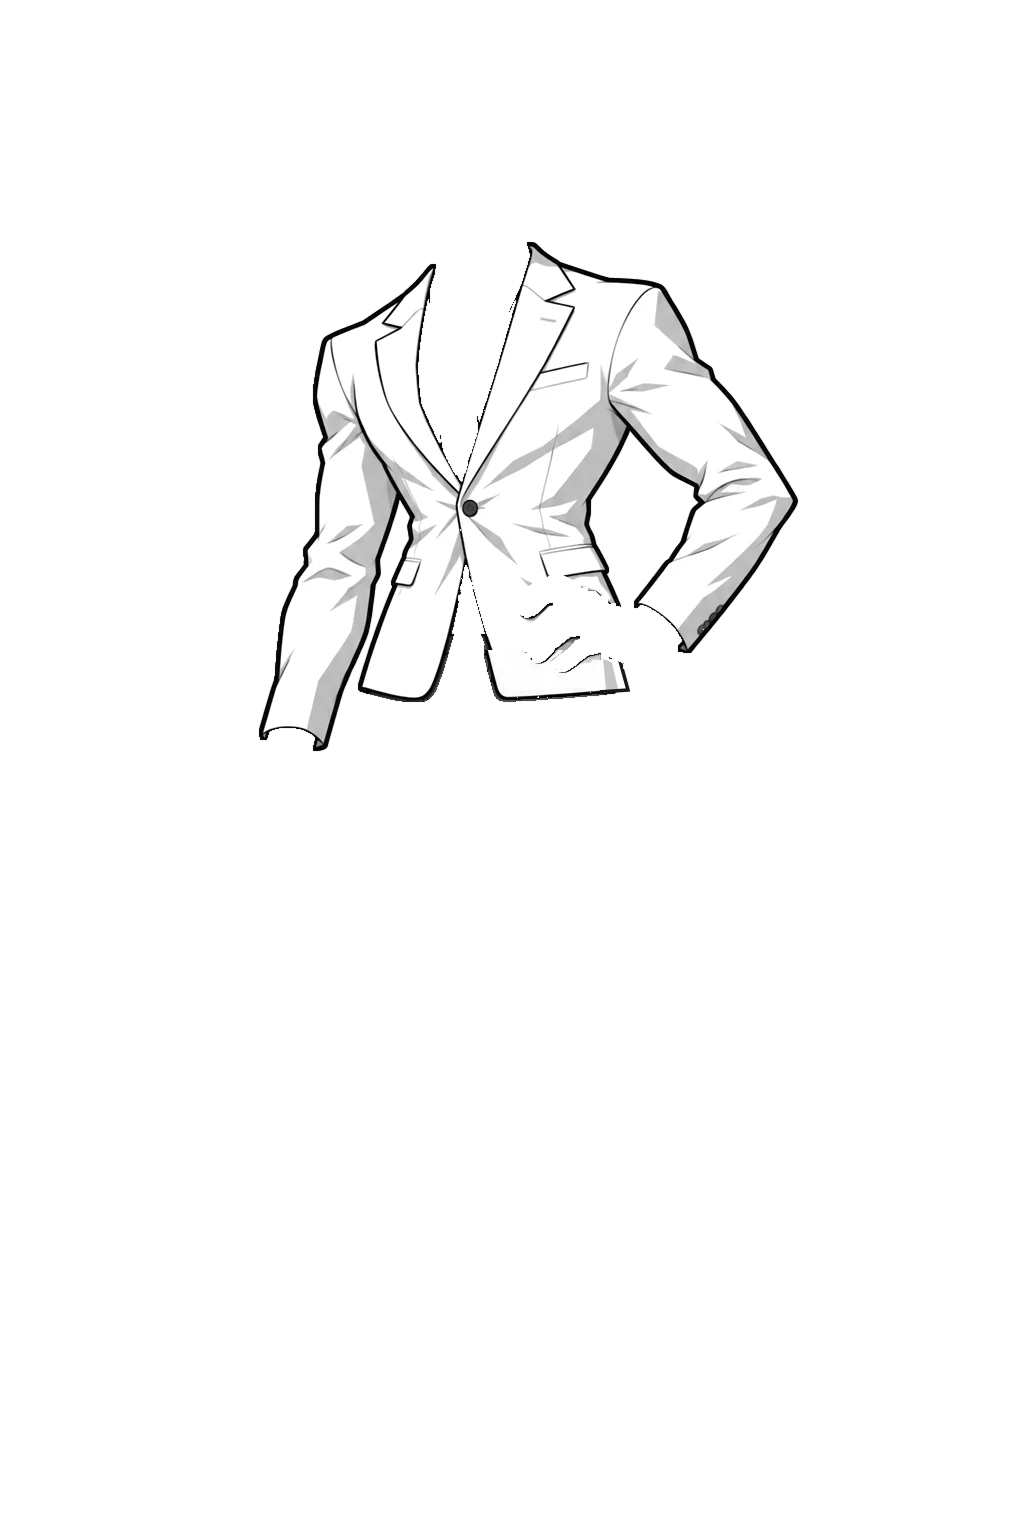
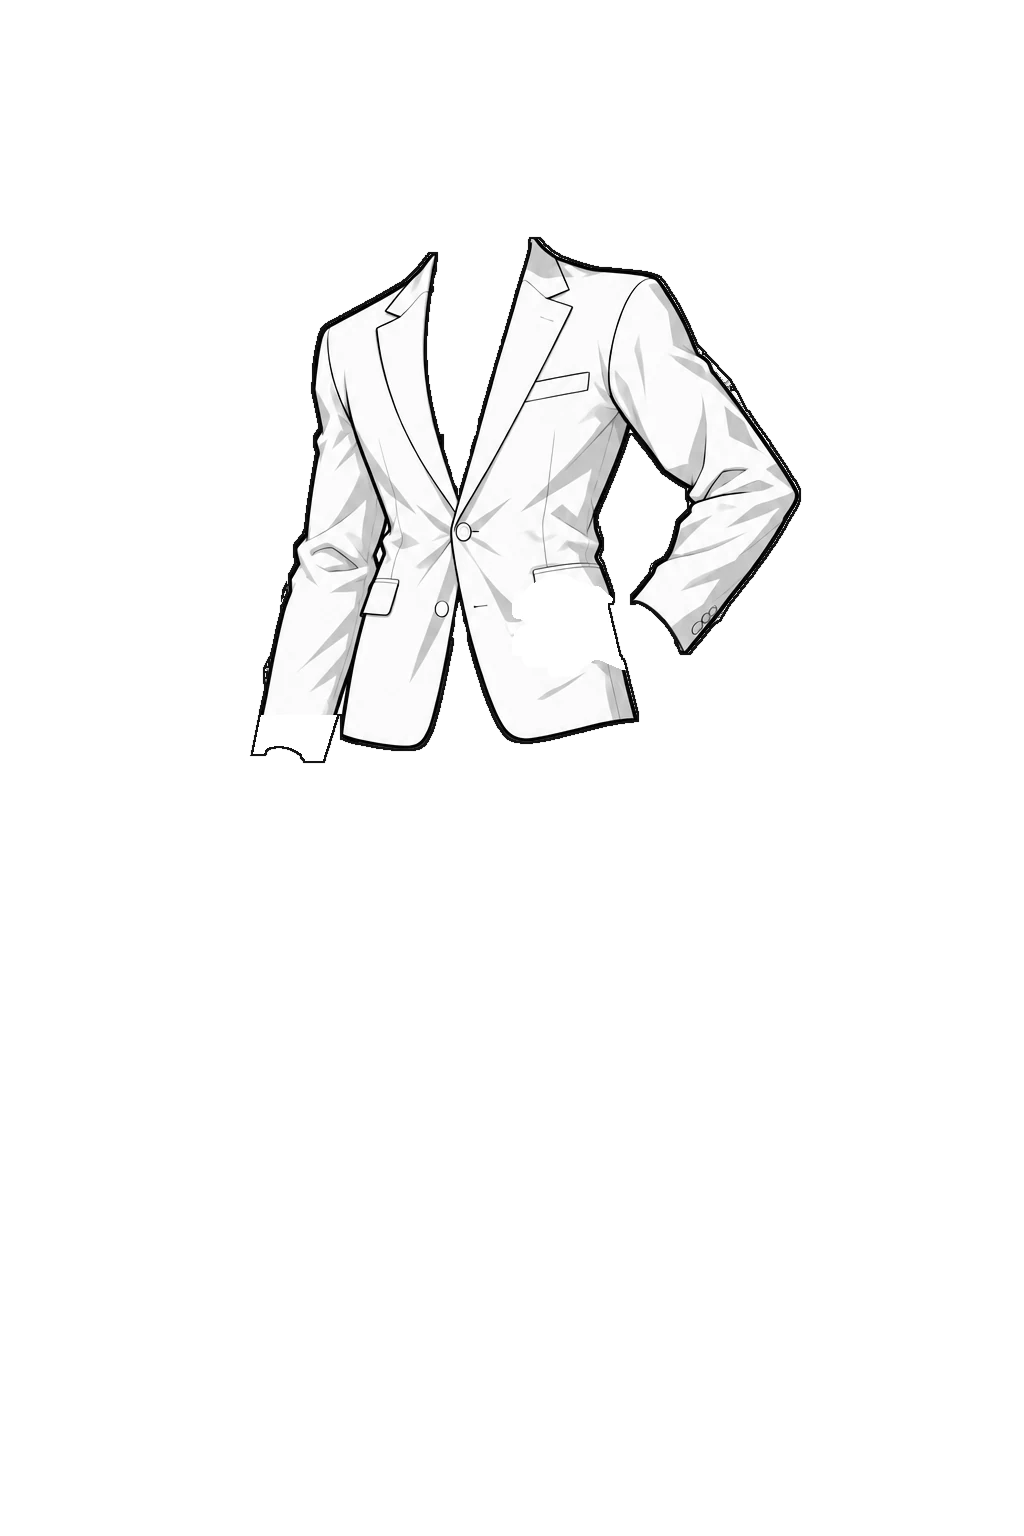
Примерочная: макет на стопочных слоях, рука поверх одежды, иконки витрины
Claude-Session: https://claude.ai/code/session_013zhon25Gp5vam6iSjkw8f2

Changed region(s): [[0.25, 0.1562, 0.7812, 0.5]]

diff --git a/docs/dev_docs/design/clothing-game-mockup.html b/docs/dev_docs/design/clothing-game-mockup.html
@@ -97,7 +97,7 @@
   .item:hover { border-color: var(--stone); transform: translateY(-1px); }
   .item.worn { border-color: var(--blue); }
   .item.selected { box-shadow: 0 0 0 3px rgba(31,78,140,.3); }
-  .item img { max-width: 100%; max-height: 100%; object-fit: contain; }
+  .item img { width: 100%; height: 100%; object-fit: contain; }
   .item .tag {
     position: absolute; top: 6px; right: 6px; font-size: 11px; background: var(--blue); color: #fff;
     border-radius: 999px; padding: 1px 7px;
@@ -147,6 +147,7 @@
         <div class="figure idle" id="figure">
           <img id="face" src="img/base.webp" alt="Персонаж">
           <div id="layers"></div>
+          <img id="hand" src="img/hand_palm.webp" alt="">
         </div>
       </div>
     </div>
@@ -183,11 +184,11 @@ const COLORS = {
 
 // order — порядок слоёв снизу вверх; color: false — вещь не перекрашивается
 const ITEMS = {
-  pants:   { ko: "바지",   cat: "bottom", imp: "입으세요", past: "입었어요", ruNom: "брюки",   ruNotNeeded: "Брюки не нужны",   def: "green",  order: 1 },
+  pants:   { ko: "바지",   cat: "bottom", imp: "입으세요", past: "입었어요", ruNom: "брюки",   ruNotNeeded: "Брюки не нужны",   def: "green",  order: 2 },
   shirt:   { ko: "셔츠",   cat: "top",    imp: "입으세요", past: "입었어요", ruNom: "рубашка", ruNotNeeded: "Рубашка не нужна", def: "yellow", order: 2 },
   tie:     { ko: "넥타이", cat: "acc",    imp: "매세요",  past: "맸어요",  ruNom: "галстук", ruNotNeeded: "Галстук не нужен", def: "yellow", order: 3 },
   jacket:  { ko: "재킷",   cat: "top",    imp: "입으세요", past: "입었어요", ruNom: "пиджак",  ruNotNeeded: "Пиджак не нужен",  def: "brown",  order: 4 },
-  shoes:   { ko: "구두",   cat: "shoes",  imp: "신으세요", past: "신었어요", ruNom: "туфли",   ruNotNeeded: "Туфли не нужны",   def: "red",    order: 5 },
+  shoes:   { ko: "구두",   cat: "shoes",  imp: "신으세요", past: "신었어요", ruNom: "туфли",   ruNotNeeded: "Туфли не нужны",   def: "red",    order: 1 },
   glasses: { ko: "안경",   cat: "acc",    imp: "쓰세요",  past: "썼어요",  ruNom: "очки",    ruNotNeeded: "Очки не нужны",    def: null,     order: 6 },
 };
 
@@ -239,6 +240,9 @@ const IMG = {};
 function load(name) {
   return new Promise(res => { const i = new Image(); i.onload = () => res(i); i.onerror = () => res(null); i.src = `img/${name}.webp`; IMG[name] = i; });
 }
+function loadIcon(name) {
+  return new Promise(res => { const i = new Image(); i.onload = () => res(i); i.onerror = () => res(null); i.src = `img/icons/${name}.webp`; IMG['icon_' + name] = i; });
+}
 const BOX = {};
 function bbox(img) {
   const c = document.createElement("canvas"); c.width = img.width; c.height = img.height;
@@ -250,8 +254,8 @@ function bbox(img) {
   }
   return [x0, y0, x1 - x0 + 2, y1 - y0 + 2];
 }
-function tinted(id, color, crop) {
-  const img = IMG[id]; const [sx, sy, sw, sh] = crop ? BOX[id] : [0, 0, img.width, img.height];
+function tinted(id, color, icon) {
+  const img = icon ? IMG['icon_' + id] : IMG[id]; const [sx, sy, sw, sh] = [0, 0, img.width, img.height];
   const c = document.createElement("canvas"); c.width = sw; c.height = sh;
   const x = c.getContext("2d");
   x.drawImage(img, sx, sy, sw, sh, 0, 0, sw, sh);
@@ -388,8 +392,7 @@ $("ruToggle").addEventListener("click", e => {
 });
 $("next").addEventListener("click", () => start((sitIndex + 1) % SITUATIONS.length));
 
-Promise.all([...FRAMES, ...Object.keys(ITEMS)].map(load)).then(() => {
-  Object.keys(ITEMS).forEach(id => { BOX[id] = bbox(IMG[id]); });
+Promise.all([...FRAMES, "hand_palm", ...Object.keys(ITEMS)].map(load).concat(Object.keys(ITEMS).map(loadIcon))).then(() => {
   start(0); blinkLoop();
 });
 </script>
